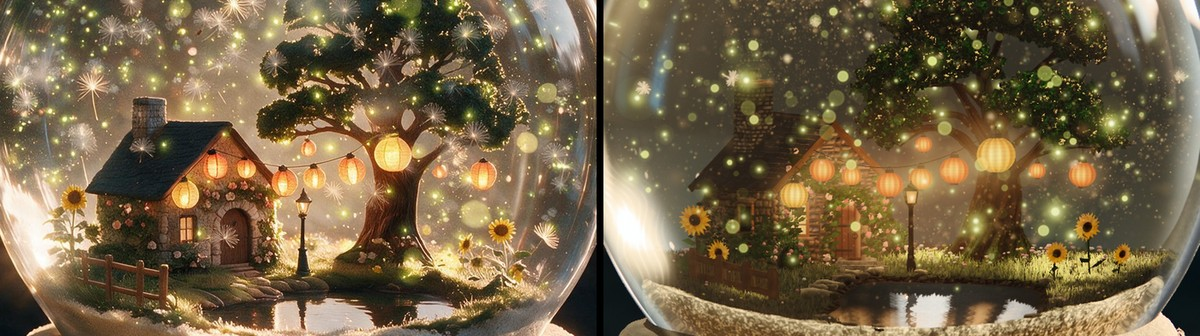
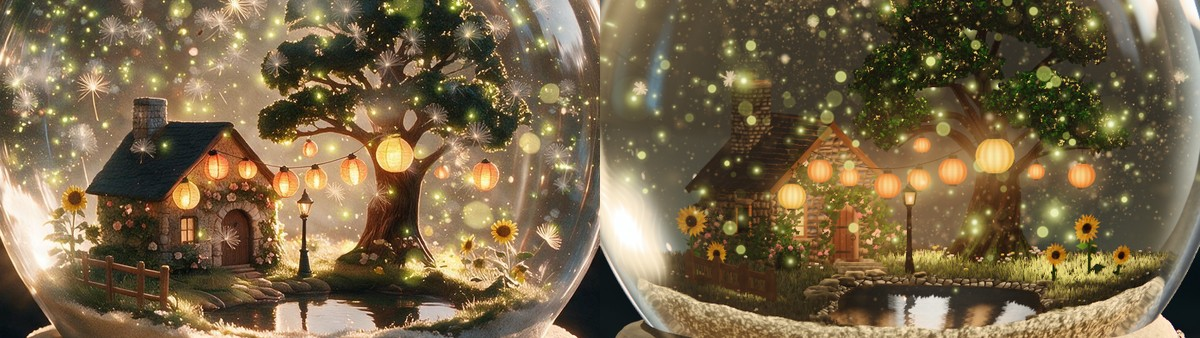
Looks at a0997d0, REPORT.md and HANDOVER.md

diff --git a/tools-not-in-repo/m3map.py b/tools-not-in-repo/m3map.py
@@ -1,0 +1,39 @@
+#!/usr/bin/env python3
+# usage: m3map.py [out.png] [still.png ids.png]: M3 of the miniature reproduced (crops sheet of the last measure, or a still + its ids view
+# against the approved resampled the same way), split by region of the 696x392 crop; writes a map of where energy is missing.
+import sys, numpy as np
+from PIL import Image
+from scipy.ndimage import gaussian_filter
+out = sys.argv[1] if len(sys.argv) > 1 else None
+def luma(a):
+    a = a.astype(np.float64) / 255
+    return 0.2126 * a[..., 0] + 0.7152 * a[..., 1] + 0.0722 * a[..., 2]
+if len(sys.argv) > 3:
+    S = Image.open(sys.argv[2]).convert('RGB'); ids = np.asarray(Image.open(sys.argv[3]).convert('RGB')).astype(int)
+    A = Image.open('references/approved/summer-rest.png').convert('RGB')
+    a = np.asarray(A.resize((696, 392), Image.LANCZOS, box=(898.62, 454.67, 898.62 + 1016.77, 454.67 + 572.66)))
+    b = np.asarray(S)[328:720, 612:1308]
+else:
+    sh = np.asarray(Image.open('out/work/measure/m3-summer-rest-final-crops-1.png').convert('RGB'))
+    a = sh[0:392, 0:696]; b = sh[0:392, 704:1400]
+    ids = np.asarray(Image.open('out/work/stills/summer-rest-hd-final-ids.png').convert('RGB')).astype(int)
+m = ids[328:720, 612:1308]
+mask = (abs(m[..., 0] - 68) <= 2) & (abs(m[..., 1] - 47) <= 2) & (abs(m[..., 2] - 218) <= 2)
+la, lb = luma(a), luma(b)
+ha = (la - gaussian_filter(la, 1.5, mode='nearest')) ** 2
+hb = (lb - gaussian_filter(lb, 1.5, mode='nearest')) ** 2
+print(f'miniature ratio {hb[mask].mean() / ha[mask].mean():.4f}  approved {ha[mask].mean()*1e4:.2f} build {hb[mask].mean()*1e4:.2f}  px {mask.sum()}')
+tot = ha[mask].sum()
+# regions in crop px (x0,y0,x1,y1)
+regs = dict(crownTop=(300,0,640,110), crownLow=(300,110,640,200), trunkLamps=(380,200,620,300), cottageRoof=(90,140,300,215), cottageWall=(90,215,300,310), leftGarden=(0,200,90,392), midGrass=(200,300,420,345), rightGrass=(420,280,696,345), pond=(230,335,560,375), front=(0,345,696,392))
+for n, (x0, y0, x1, y1) in regs.items():
+    k = mask[y0:y1, x0:x1]
+    if k.sum() == 0: print(n, 'no px'); continue
+    ea = ha[y0:y1, x0:x1][k]; eb = hb[y0:y1, x0:x1][k]
+    print(f'{n:12s} px {k.sum():6d} approved {ea.mean()*1e4:7.2f} build {eb.mean()*1e4:7.2f} ratio {eb.mean()/ea.mean():5.2f}  share of approved energy {ea.sum()/tot*100:5.1f} %  missing {(ea.sum()-eb.sum())/tot*100:6.1f} %')
+if out:
+    pa = np.sqrt(gaussian_filter(ha * mask, 4)); pb = np.sqrt(gaussian_filter(hb * mask, 4)); s = 0.07
+    top = np.concatenate([a, np.zeros((392, 8, 3), np.uint8), b], axis=1)
+    g = np.concatenate([np.clip(pa / s, 0, 1), np.zeros((392, 8)), np.clip(pb / s, 0, 1)], axis=1)
+    g = (np.stack([g] * 3, -1) * 255).astype(np.uint8)
+    Image.fromarray(np.concatenate([top, g], axis=0)).save(out); print(out)

diff --git a/REPORT.md b/REPORT.md
@@ -1,0 +1,61 @@
+# Report: summer miniature, third set (summer_mini3), Phase 4, Round 12 fix pass
+
+Branch `agent/p4-summer_mini3`, last commit: see the last line of this file. Looks branch `agent/p4-summer_mini3-looks`.
+Make targets, in order: `tree-summer`, `village-summer`, then `npm run texpack`, `npm run build`.
+Stand-ins and fallbacks: none.
+
+## What each commit answers
+| Commit | Issue (Round 12) | Seen with my own eyes |
+| --- | --- | --- |
+| `814948a`, `6f27fb7`, `e736060` | first pass: crown tone and gold rims, sun pools, sand lip, lanterns, wall, pond sky | rest hero draft and review |
+| `25334c4` | M3 summer-rest (final 0.5806 on the frozen build): grain the lens resolves in sand, grass, crown, masonry; R1 #4 larger sparser vines, darker chimney; R1 #7 pebble bank | rest hero draft and review, energy map |
+| `a8881ec` | R1 #6 and R3 part 2 lanterns (hot cores, soft ribs, light on wall and leaves); R1 #7 and R3 part 2 fence (separate boards with grain); R3 part 2 sunflowers (cupped petals, 0.27 mm stems), both windows, sand band relief; R1 #3 my half (ragged lip, darker face, broken shelf); R3 beetle blob (a sunk stone, removed) | rest hero draft; settled hero draft (all ten lanterns lit: "leftmost unlit" not reproduced) |
+| `e42a7f1` | R4 major, decision 91: lanterns come up one by one from a dim glow (floor 0.4, every 0.23 s, each over 0.42 s, last up at 2.49 s); green sunflower stems, smaller leaves; R3 waterline (wider wet film, ruffled); side pane lit | landed hero draft, rest hero draft, macro and interior at rest (draft), rest hero at the final tier (the measure's still) |
+| `a0997d0` | R3 part 2 "warm glow onto nearby foliage", R1 #5 modelling in the lower crown: the lanterns' light reaches further into the leaves | rest hero draft |
+
+## Still wrong, worst first
+1. M3 passes at the final tier by a small margin only (see the last lines). The lower crown (0.53 to 0.64 of the approved
+   detail), the pond (0.52) and the roof (0.56) hold least. Much of the approved detail there is leaf silhouette against
+   bright haze, and the air behind the tree is dark (summer_air3's backdrop).
+2. Crown (R1 #5, R3 minor): the pads are still alike in size and density; gaps between tiers are clearer than before
+   but not the approved image's separate rounded masses. The leaf cards are the same model at all pads.
+3. Cottage (R1 #4): chimney height, roof rows, wall courses and the arch are the shared model, not in my files. I
+   darkened the chimney and varied the stones in tone only.
+4. Fence (R1 #7): boards now differ in width, tone and grain, but the rails are not open (shared model), so from the
+   hero it is still a low dark shape.
+5. Sunflower leaves are flat kites (two triangles each); the petals are shaded by normals only, not translucent.
+6. Pond (R1 #7): reflections are broad pale and dark shapes of the sky, cottage, post and trunk from an analytic
+   model, not the real silhouettes; the lamp's narrow reflection is there but faint.
+7. Lamp post (R1 #6): its shape is the shared model.
+8. The front lip of sand is wide from the hero; bases3's taller collar is meant to cover part of it (not seen merged).
+9. A clipped red-white dot in the pond's reflection at rest is a particle, not my mesh.
+
+## Not seen
+- The film (lantern timing in motion); only the landed still at 0.5 s.
+- Cameras base, surface, low after today's changes; the stand-ins diagnostic.
+- The landed state after `a0997d0` (seen after `e42a7f1`'s timing at floor 0.4).
+
+## Built
+Nothing new as a part; the same meshes (ground, water, grass, decor, leaves, lanterns), re-toned and re-shaded, with
+fewer triangles than at the start of the pass.
+
+## Triangles (G15), merged build at `24ae271`
+Season: 1,648,500 / 906,237 / 427,880 (high / medium / low; limits 1,800,000 / 1,100,000 / 600,000).
+My files at high by the builders' logs: 181,510 (ground 31,920, water 2,160, grass 63,000, decor 23,282, leaves 49,404,
+lanterns 11,744); 182,472 before today's last batches. Medium and low not recounted mesh by mesh; the season's counts
+fell by 299 and 1,118 against my 07:11 figures with nothing but my files changed in the build.
+
+## Tests and measures on the last state
+- `npx tsc --noEmit`: clean. `npx vitest run`: 32 files, 432 tests passed, 4 skipped (run on `24ae271`).
+- `npm run determinism`: `determinism: pass · 3 pictures, 4 page loads, preview, draft, 348 s` (on `3fbe51f`; `24ae271` adds
+  only scorecards, kit and status files from main).
+- `npm run measure -- --unit summer --only M3 --tier final` on `3fbe51f`: pass, 0.7645 against 0.75 (base 1.237, miniature
+  0.765 over 125,261 pixels). Earlier finals: 0.5806 (frozen `e39ec6c`, from /root), 0.536 (`e736060`), 0.7644 (`a8881ec` less
+  two edits), 0.7593 (`3d8d0c4`).
+- `npm run measure -- --unit summer --only M2,M3,M6 --tier draft` on `3fbe51f`: 13 of 19 lines, 0 red (M3 draft 1.0775; M2 all
+  0; M6 at most 9 of 102,000 particles inside a solid at summer-shake).
+
+## Looks
+40 of 40 used (stills, fits and measures that render, counted together).
+
+Last commit of `agent/p4-summer_mini3`: `24ae271` (merge of main over `a0997d0`).

diff --git a/HANDOVER.md b/HANDOVER.md
@@ -1,0 +1,38 @@
+# Handover: summer miniature (summer_mini3, third set, Phase 4)
+
+Branch `agent/p4-summer_mini3`; looks `agent/p4-summer_mini3-looks`. Files: `assets-src/village-summer/**`,
+`assets-src/tree-summer/**`, `src/seasons/summer/miniature.ts`, `src/seasons/summer/mini/**`.
+
+## Make targets, in order
+`npm run make -- tree-summer`, `npm run make -- village-summer`, `npm run texpack`, `npm run build`.
+(Before merging main: `git checkout -- assets-full public/assets`.)
+
+## Where things are
+- `src/seasons/summer/mini/tree.ts`: crown (`LEAF`, `LEAF_VARY`, gold rim light), wood, lanterns (`LANTERN`: `rib`, `ring`,
+  `body`, `core`, `tight` shape the paper and its hot core; `dim`, `stepS`, `rampS` are the timing after a landing: floor
+  0.4, one lantern every 0.23 s, each over 0.42 s, the last of ten fully up at 2.49 s; summer_air3's pool of light begins
+  at 2.4 s). `update()` turns `moment.sinceLanding` into the level; nothing else moves it.
+- `src/seasons/summer/mini/village.ts`: sand bed (`SAND`: mid grain, relief from `sandRelief` through `dFdx/dFdy`, lip),
+  turf (`GRASS_LOOK`), the pond bank's stones (`PEBBLE`, `turfPebble`, `turfBankAt`: Worley stones in the turf shader, lit
+  with their own tone `turfPebTone` because vertex colour multiplies `diffuseColor` after `map_fragment`), water (`WATER`:
+  shore film `shoreFrom`/`shoreTo`), roof and chimney (`ROOF`), wall and fence variation (`stoneVary`), windows
+  (`DARK_PANE`, the `look` passed in `lights()`), lantern light on the wall (`NEAR_WALL.paper`).
+- `assets-src/village-summer/build.mjs`: ground (`topAt`, `TURF.sandMm` and its fbm make the ragged lip), grass tufts
+  (per-tuft `own()` hash gives `lit` and `deep`), roses and climbers, stepping stones, sunflowers (`sunflower()`).
+  Changing how many times `R()` is called moves everything generated after it; use position hashes for new variation.
+
+## M3 (the measured item)
+`out/work/bin/m3map.py` (not in the repo; copy in `tools-not-in-repo/` on this branch) reproduces the miniature's M3
+ratio from a still and the ids view and prints it by region. Detail under about 2 px (0.3 mm at hero hd) is gone at the
+final tier's 24 samples; features must be 3 px or more. The mask leaves out trunk, lanterns and lamp post. Draft reads
+about 0.1 higher than final; only final counts.
+
+## Not mine, still wrong (told to /root)
+- The air behind the crown is dark where the approved image is bright haze (summer_air3's backdrop); much of the
+  approved image's fine energy is leaf silhouette against that haze.
+- Chimney height, roof rows, wall courses, the fence's open rails, the arch, the lamp post's shape: the shared model.
+- A clipped red-white dot in the pond's reflection at rest is a particle (absent at settled).
+
+## Traps
+- An undeclared GLSL name breaks a shader silently: look at a still after every shader edit.
+- One render at a time; never make/texpack/build while a still or a measure renders.
